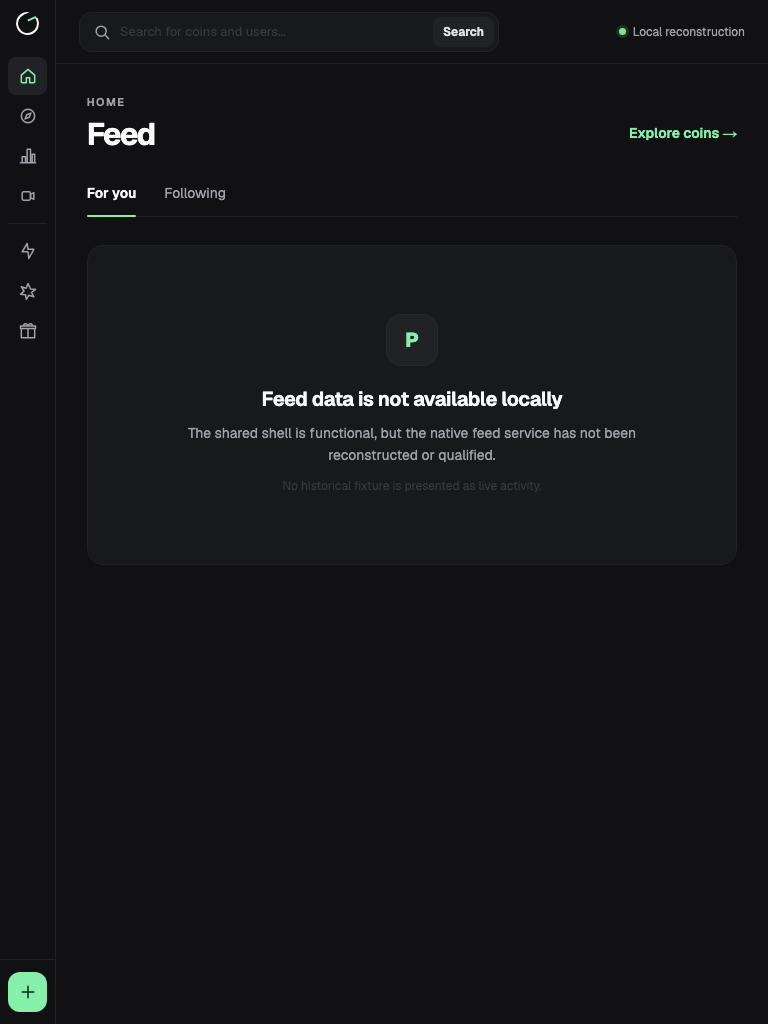
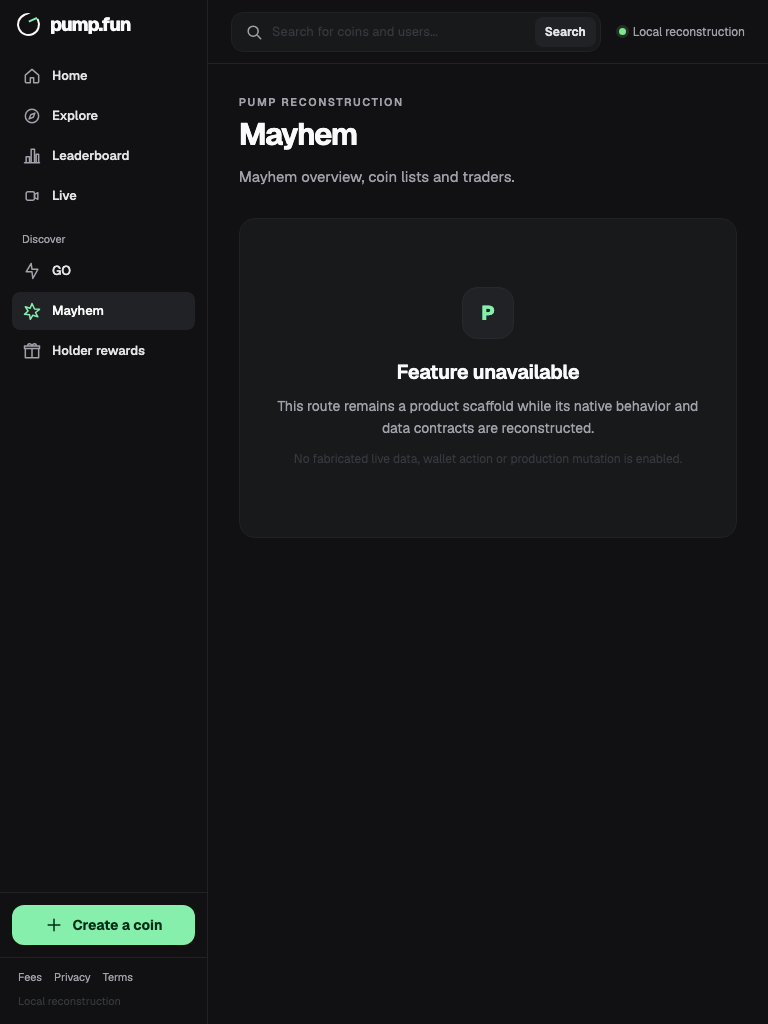
fix(frontend): keep responsive navigation accessible

diff --git a/app/packages/frontend/tests/shell.spec.ts b/app/packages/frontend/tests/shell.spec.ts
@@ -72,7 +72,24 @@ test("mobile navigation traps focus, restores it and closes after navigation", a
 
   await expect(navigation).toHaveAttribute("inert", "");
   await expect(open).toHaveAttribute("aria-expanded", "false");
-  await open.click();
+  await page.keyboard.press("Tab");
+  await expect(
+    page.getByRole("link", { name: "Skip to main content" }),
+  ).toBeFocused();
+  await page.keyboard.press("Tab");
+  await expect(open).toBeFocused();
+  expect(
+    await open.evaluate((element) => ({
+      focusVisible: element.matches(":focus-visible"),
+      outlineStyle: getComputedStyle(element).outlineStyle,
+      outlineWidth: getComputedStyle(element).outlineWidth,
+    })),
+  ).toEqual({
+    focusVisible: true,
+    outlineStyle: "solid",
+    outlineWidth: "2px",
+  });
+  await page.keyboard.press("Enter");
   await expect(open).toHaveAttribute("aria-expanded", "true");
   await expect(shell).toHaveAttribute("data-mobile-navigation", "open");
   await expect(
@@ -209,6 +226,13 @@ test("requested viewports have usable controls and no horizontal overflow", asyn
         .boundingBox();
       expect(menuBox?.width, name).toBeGreaterThanOrEqual(44);
       expect(menuBox?.height, name).toBeGreaterThanOrEqual(44);
+    } else {
+      await expect(
+        page.getByRole("link", { name: "Create a coin", exact: true }),
+      ).toBeVisible();
+      await expect(
+        page.getByRole("button", { name: "Open navigation" }),
+      ).toBeHidden();
     }
   }
 });

diff --git a/app/packages/frontend/src/app/globals.css b/app/packages/frontend/src/app/globals.css
@@ -561,42 +561,6 @@ h1 {
   display: none;
 }
 
-@media (max-width: 1023px) and (min-width: 768px) {
-  .sidebar {
-    width: var(--shell-rail);
-  }
-  .shell-content {
-    margin-left: var(--shell-rail);
-  }
-  .sidebar-heading {
-    justify-content: center;
-    padding: 0;
-  }
-  .brand-wordmark,
-  .navigation-label,
-  .navigation-link span,
-  .create-link span,
-  .sidebar-footer {
-    display: none;
-  }
-  .sidebar nav,
-  .sidebar-actions {
-    padding-right: 8px;
-    padding-left: 8px;
-  }
-  .navigation-link,
-  .create-link {
-    justify-content: center;
-    padding-right: 0;
-    padding-left: 0;
-  }
-  .navigation-group + .navigation-group {
-    margin-top: 8px;
-    padding-top: 8px;
-    border-top: 1px solid var(--color-border-secondary);
-  }
-}
-
 @media (max-width: 767px) {
   :root {
     --shell-header: auto;

diff --git a/app/packages/frontend/src/app/app-shell.tsx b/app/packages/frontend/src/app/app-shell.tsx
@@ -239,6 +239,7 @@ function NavigationGroup({
                 className="navigation-link"
                 data-active={active}
                 aria-current={active ? "page" : undefined}
+                aria-label={item.label}
                 href={item.href}
                 onClick={onNavigate}
                 title={item.label}
@@ -382,7 +383,9 @@ export default function AppShell({ children }: { children: React.ReactNode }) {
             className="create-link"
             data-active={pathname === "/create"}
             aria-current={pathname === "/create" ? "page" : undefined}
+            aria-label="Create a coin"
             href="/create"
+            title="Create a coin"
             onClick={() => closeNavigation()}
           >
             <Icon name="create" />

diff --git a/app/packages/frontend/visual/shell-20261028/README.md b/app/packages/frontend/visual/shell-20261028/README.md
@@ -1,18 +1,34 @@
 # Local shell viewport review
 
-These screenshots were rendered from commit inputs with the Next.js production server on `127.0.0.1:3000`. They document the local implementation; they are not upstream screenshots and do not establish pixel parity.
+The baseline images were rendered from the scaffold at upstream `e12df988b`; the remaining images were rendered from the local production build on `127.0.0.1:3000`. They document before/after application behavior. They are not retained original-site screenshots and do not establish pixel parity.
 
-| State | SHA-256 | Result |
-| --- | --- | --- |
[5 lines of base64/hex data omitted]
+## Reproduced scaffold limitations
+
+At 320×640 and 375×812, the scaffold had no menu toggle, the Create link computed to `display: none`, visible navigation labels computed to 10px, and no link exposed `aria-current="page"`. The same route had no active-route semantics at 768×1024 or 1440×900. None of the four baselines overflowed horizontally.
+
+| Baseline | SHA-256 |
+| --- | --- |
[4 lines of base64/hex data omitted]
+
+## Corrected local states
+
+| State                        | SHA-256                                                            | Result                                                                                                       |
+| ---------------------------- | ------------------------------------------------------------------ | ------------------------------------------------------------------------------------------------------------ |
[8 lines of base64/hex data omitted]
 
 ## Static reference comparison
 
-- Geometry follows the recovered `13rem` desktop sidebar, `3.5rem` collapsed rail, `18rem` mobile drawer and sub-768px mobile boundary.
+- Geometry follows the recovered `13rem` desktop sidebar, `18rem` mobile drawer and sub-768px mobile boundary. The recovered `3.5rem` collapsed rail remains documented but is not used at the 768px acceptance viewport so labels stay readable.
 - Typography uses the retained Geist declarations. Colors, borders and focus accents use the retained neutral/zinc/green token values.
 - Navigation hierarchy follows the recovered primary and Discover groups. Search placement follows the captured sticky top bar and 420px maximum width.
 - The local mobile header, simple SVG icons, direct URL search form and unavailable product states are disclosed local design choices in `SHELL-EVIDENCE.md`.

diff --git a/app/packages/frontend/SHELL-EVIDENCE.md b/app/packages/frontend/SHELL-EVIDENCE.md
@@ -15,13 +15,14 @@ This note records the static evidence used for the local shared application shel
 ## Inferred
 
 - The sidebar is the shared navigation surface across the captured included routes because the same route inventory and shell markup recur in the captured page HTML.
-- A compact rail is appropriate at tablet widths: the recovered sidebar has an icon-only collapsed state, while the recovered mobile drawer activates only below 768 px.
+- The recovered sidebar includes an icon-only collapsed state, while the recovered mobile drawer activates below 768 px.
 - Search belongs in the shared top bar. The available evidence establishes its label, placeholder and dialog trigger, but not a qualified local result service.
 
 ## Local design
 
 - The local search submits an encoded `q` parameter to `/explore`, synchronizes the field with browser history and exposes an explicit unavailable state. This preserves useful navigation without claiming reconstruction of the upstream search dialog or backend.
 - The local mobile drawer closes after navigation, on Escape and on backdrop activation. These behaviors are accessibility safeguards; the captured factory proves a dismissible mobile overlay, not each local event choice.
+- The local shell keeps labelled navigation at 768 px and above, and contains keyboard focus while the mobile drawer is open. These are local accessibility decisions; the retained source does not qualify the exact upstream tablet or focus behavior.
 - Simple local SVG icons stand in for the captured icon imports. Their meaning and accessible labels are local implementation details, not recovered original icon source.
 - The `Local reconstruction` badge makes the environment boundary explicit and prevents the shell from presenting scaffolded product data as live.
 
